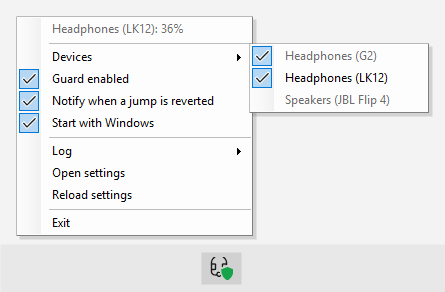
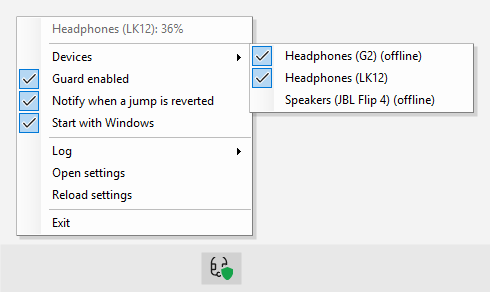
Devices menu: mark devices that are not connected "(offline)"
The grey text colour was hard to read on the dark menu and looked like a
disabled item, although the entry is clickable. Windows only knows that the
device is not connected, so the mark says "offline" rather than "powered
off". The mark is display only (KnownDevice.MenuText); exclusions are still
stored by the plain name. Screenshots redrawn.

diff --git a/src/BtVolumeGuard/TrayApplicationContext.cs b/src/BtVolumeGuard/TrayApplicationContext.cs
@@ -228,7 +228,7 @@ internal sealed class TrayApplicationContext : ApplicationContext
     }
 
     // Every Bluetooth playback device Windows knows, connected or not; disconnected ones stay
-    // clickable but are drawn in the grey text colour.
+    // clickable and are marked "(offline)".
     private void UpdateDevicesMenu()
     {
         _devicesItem.DropDownItems.Clear();
@@ -242,17 +242,8 @@ internal sealed class TrayApplicationContext : ApplicationContext
 
         foreach (KnownDevice device in devices)
         {
-            var item = new ToolStripMenuItem(device.Name, null, (_, _) => ToggleDevice(device))
-            {
-                Checked = device.Guarded,
-                ToolTipText = device.Connected ? "Connected" : "Not connected",
-            };
-            if (!device.Connected)
-            {
-                item.ForeColor = SystemColors.GrayText;
-            }
-
-            _devicesItem.DropDownItems.Add(item);
+            _devicesItem.DropDownItems.Add(
+                new ToolStripMenuItem(device.MenuText, null, (_, _) => ToggleDevice(device)) { Checked = device.Guarded });
         }
     }
 

diff --git a/src/BtVolumeGuard.Core/DeviceSelection.cs b/src/BtVolumeGuard.Core/DeviceSelection.cs
@@ -52,4 +52,11 @@ public sealed class DeviceSelection
 }
 
 /// <summary>A device offered in the tray menu: one friendly name, possibly several endpoints.</summary>
-public sealed record KnownDevice(string Name, bool Connected, bool Guarded);
+public sealed record KnownDevice(string Name, bool Connected, bool Guarded)
+{
+    /// <summary>
+    /// Text of the menu entry. Windows only knows that a device is not connected (switched off,
+    /// out of range or not reachable), hence "offline". Display only: exclusions use <see cref="Name"/>.
+    /// </summary>
+    public string MenuText => Connected ? Name : $"{Name} (offline)";
+}

diff --git a/src/BtVolumeGuard.Core.Tests/DeviceSelectionTests.cs b/src/BtVolumeGuard.Core.Tests/DeviceSelectionTests.cs
@@ -52,4 +52,10 @@ public class DeviceSelectionTests
         Assert.Equal(
             "all Bluetooth devices except Speakers (JBL Flip 4)",
             new DeviceSelection(["Speakers (JBL Flip 4)"]).ToString());
+
+    [Theory]
+    [InlineData(true, "Headphones (LK12)")]
+    [InlineData(false, "Headphones (LK12) (offline)")]
+    public void Menu_text_marks_devices_that_are_not_connected(bool connected, string expected) =>
+        Assert.Equal(expected, new KnownDevice("Headphones (LK12)", connected, Guarded: true).MenuText);
 }

diff --git a/docs/design.md b/docs/design.md
@@ -87,4 +87,4 @@ The safety poll reports a volume that differs from the last notification only wh
 5. **Tray menu:** enable/disable guard, current headset volume, default volume, open log, "Start with Windows" (`HKCU\Software\Microsoft\Windows\CurrentVersion\Run`), Exit. Optional balloon notification on revert. Proper icon. *Done:* menu with the current volume of watched endpoints, "Guard enabled", "Notify when a jump is reverted" (both saved to the settings file), "Start with Windows", "Log" (submenu: level Off / Normal / Verbose, "Open log", "Clear log"), "Open settings", "Reload settings", "Exit". A left click on the icon opens the menu too. The default volume is edited in the settings file. Tray icon: headset glyph with a shield, drawn at runtime (`TrayIconRenderer`), white or black to match the taskbar theme, green shield when the guard is on, grey when off; the tooltip shows the state and volumes. Saving from the menu rewrites the settings file, so comments in it are lost.
 6. **Publish:** framework-dependent `win-x64`, copied to any user-writable folder (not `Program Files`, not `%LOCALAPPDATA%`). Settings, state and log stay next to the executable, so the folder must be writable. *Done:* `tools/publish.ps1` builds a single-file exe (~1.5 MB, needs the .NET 10 Desktop Runtime) and with `-InstallDir` installs or updates it (refuses Program Files, stops a running copy, restarts it if it ran from that folder, keeps settings/state/log). Exe icon `BtVolumeGuard.ico` (dark headset with a white outline, visible on light and dark backgrounds) generated by `tools/make-icon.ps1`. Verified by installing into a temporary folder, simulating a jump on a Realtek endpoint and reinstalling over the running copy.
 7. Retire the PowerShell prototype once the app is verified.
-8. **Any Bluetooth headset:** guard all Bluetooth playback devices by default, Devices submenu (not connected ones in grey), event contexts in the settings, README for Bluetooth headsets in general with the LK12 as the verified example. *Done* (2026-10-12); device detection verified on the development machine (LK12, G2, JBL Flip 4, A2 found; Realtek, HDMI, USB not), the jump revert re-checked on a Realtek endpoint with `--mask`; not yet with a headset other than the LK12.
+8. **Any Bluetooth headset:** guard all Bluetooth playback devices by default, Devices submenu (not connected ones marked "(offline)"), event contexts in the settings, README for Bluetooth headsets in general with the LK12 as the verified example. *Done* (2026-10-12); device detection verified on the development machine (LK12, G2, JBL Flip 4, A2 found; Realtek, HDMI, USB not), the jump revert re-checked on a Realtek endpoint with `--mask`; not yet with a headset other than the LK12.

diff --git a/README.md b/README.md
@@ -48,12 +48,12 @@ BtVolumeGuard runs in the system tray and guards **every Bluetooth playback devi
 
 It reacts to Windows Core Audio notifications (via [NAudio](https://github.com/naudio/NAudio)) rather than polling, so the correction should be fast enough to go unnoticed. How the jump was analysed: [`docs/design.md`](docs/design.md).
 
-Everything is in the tray menu (left or right click on the icon): the current headset volume, the **Devices** to guard (every Bluetooth playback device Windows knows; ones that are not connected are shown in grey), turning the guard and revert notifications on or off, starting with Windows, the log level, and the log and settings files. The shield in the icon turns grey while the guard is off.
+Everything is in the tray menu (left or right click on the icon): the current headset volume, the **Devices** to guard (every Bluetooth playback device Windows knows; ones that are not connected are marked "(offline)"), turning the guard and revert notifications on or off, starting with Windows, the log level, and the log and settings files. The shield in the icon turns grey while the guard is off.
 
 <p align="center">
   <picture>
     <source media="(prefers-color-scheme: dark)" srcset="docs/screenshots/tray-menu.png">
-    <img src="docs/screenshots/tray-menu-light.png" alt="Tray menu: Headphones (LK12): 36%, Devices submenu (Headphones (G2) and Headphones (LK12) guarded, G2 not connected; Speakers (JBL Flip 4) not guarded, not connected), Guard enabled, Notify when a jump is reverted, Start with Windows, Log, Open settings, Reload settings, Exit">
+    <img src="docs/screenshots/tray-menu-light.png" alt="Tray menu: Headphones (LK12): 36%, Devices submenu (Headphones (G2) and Headphones (LK12) guarded, G2 offline; Speakers (JBL Flip 4) not guarded, offline), Guard enabled, Notify when a jump is reverted, Start with Windows, Log, Open settings, Reload settings, Exit">
   </picture>
 </p>
 
